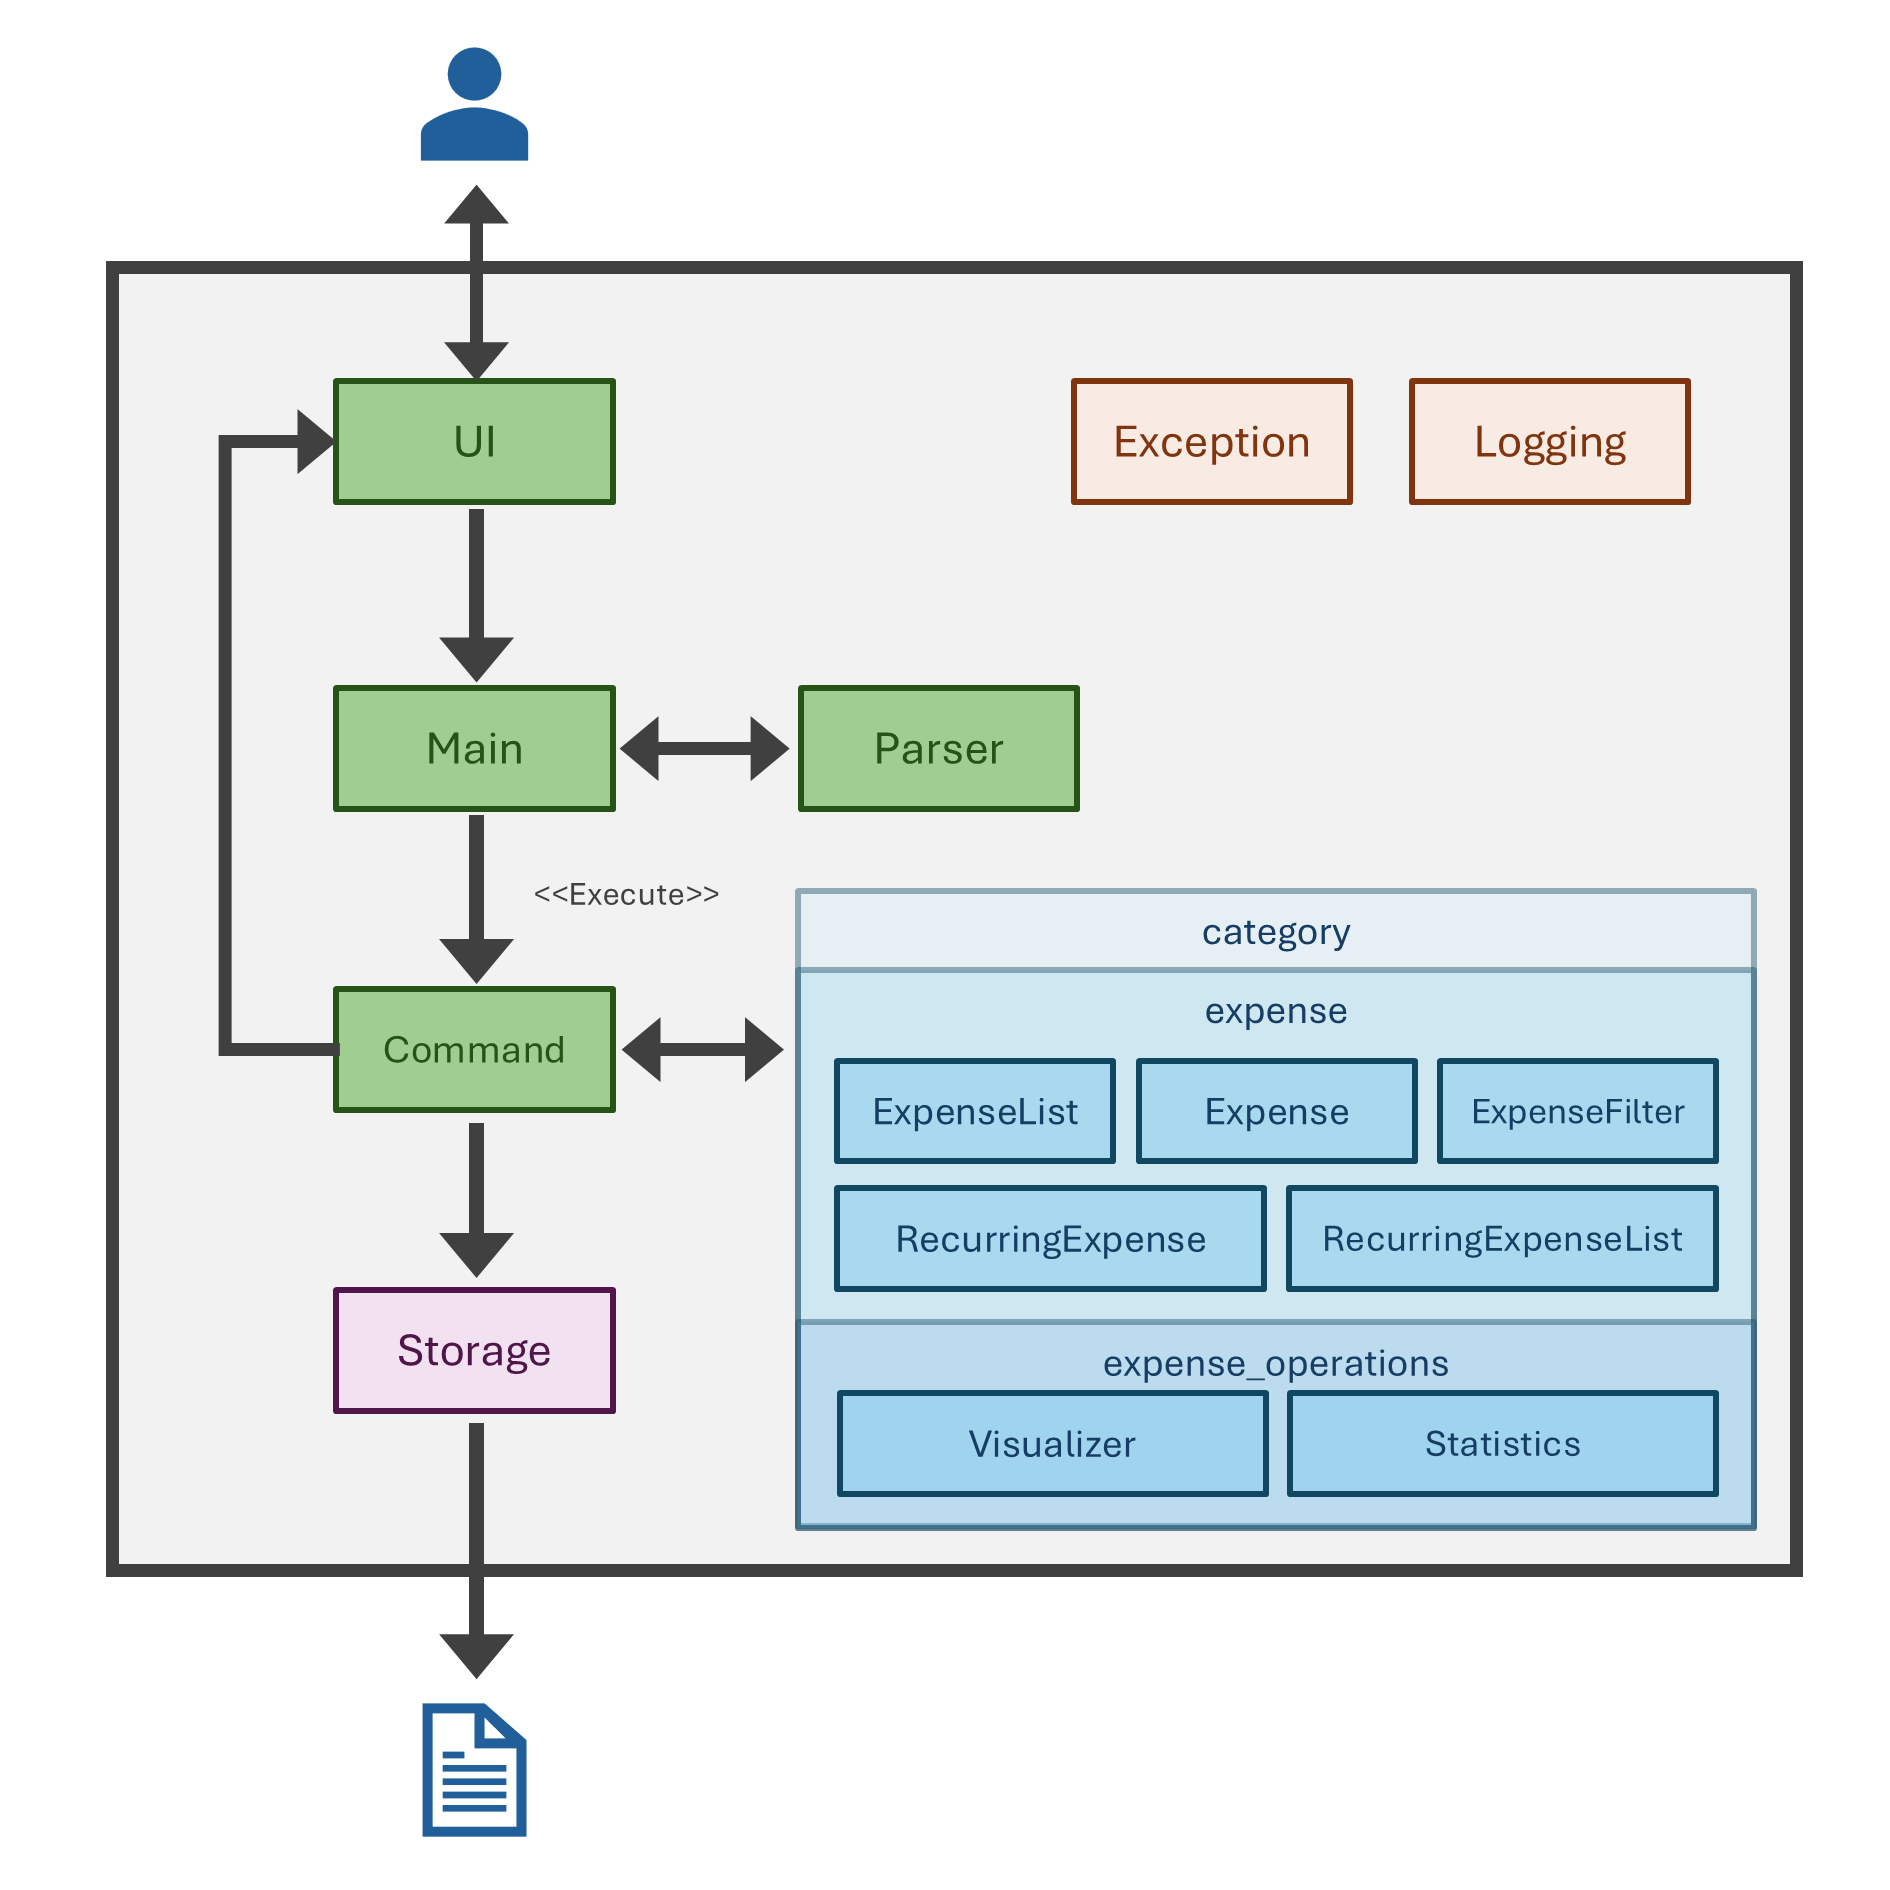
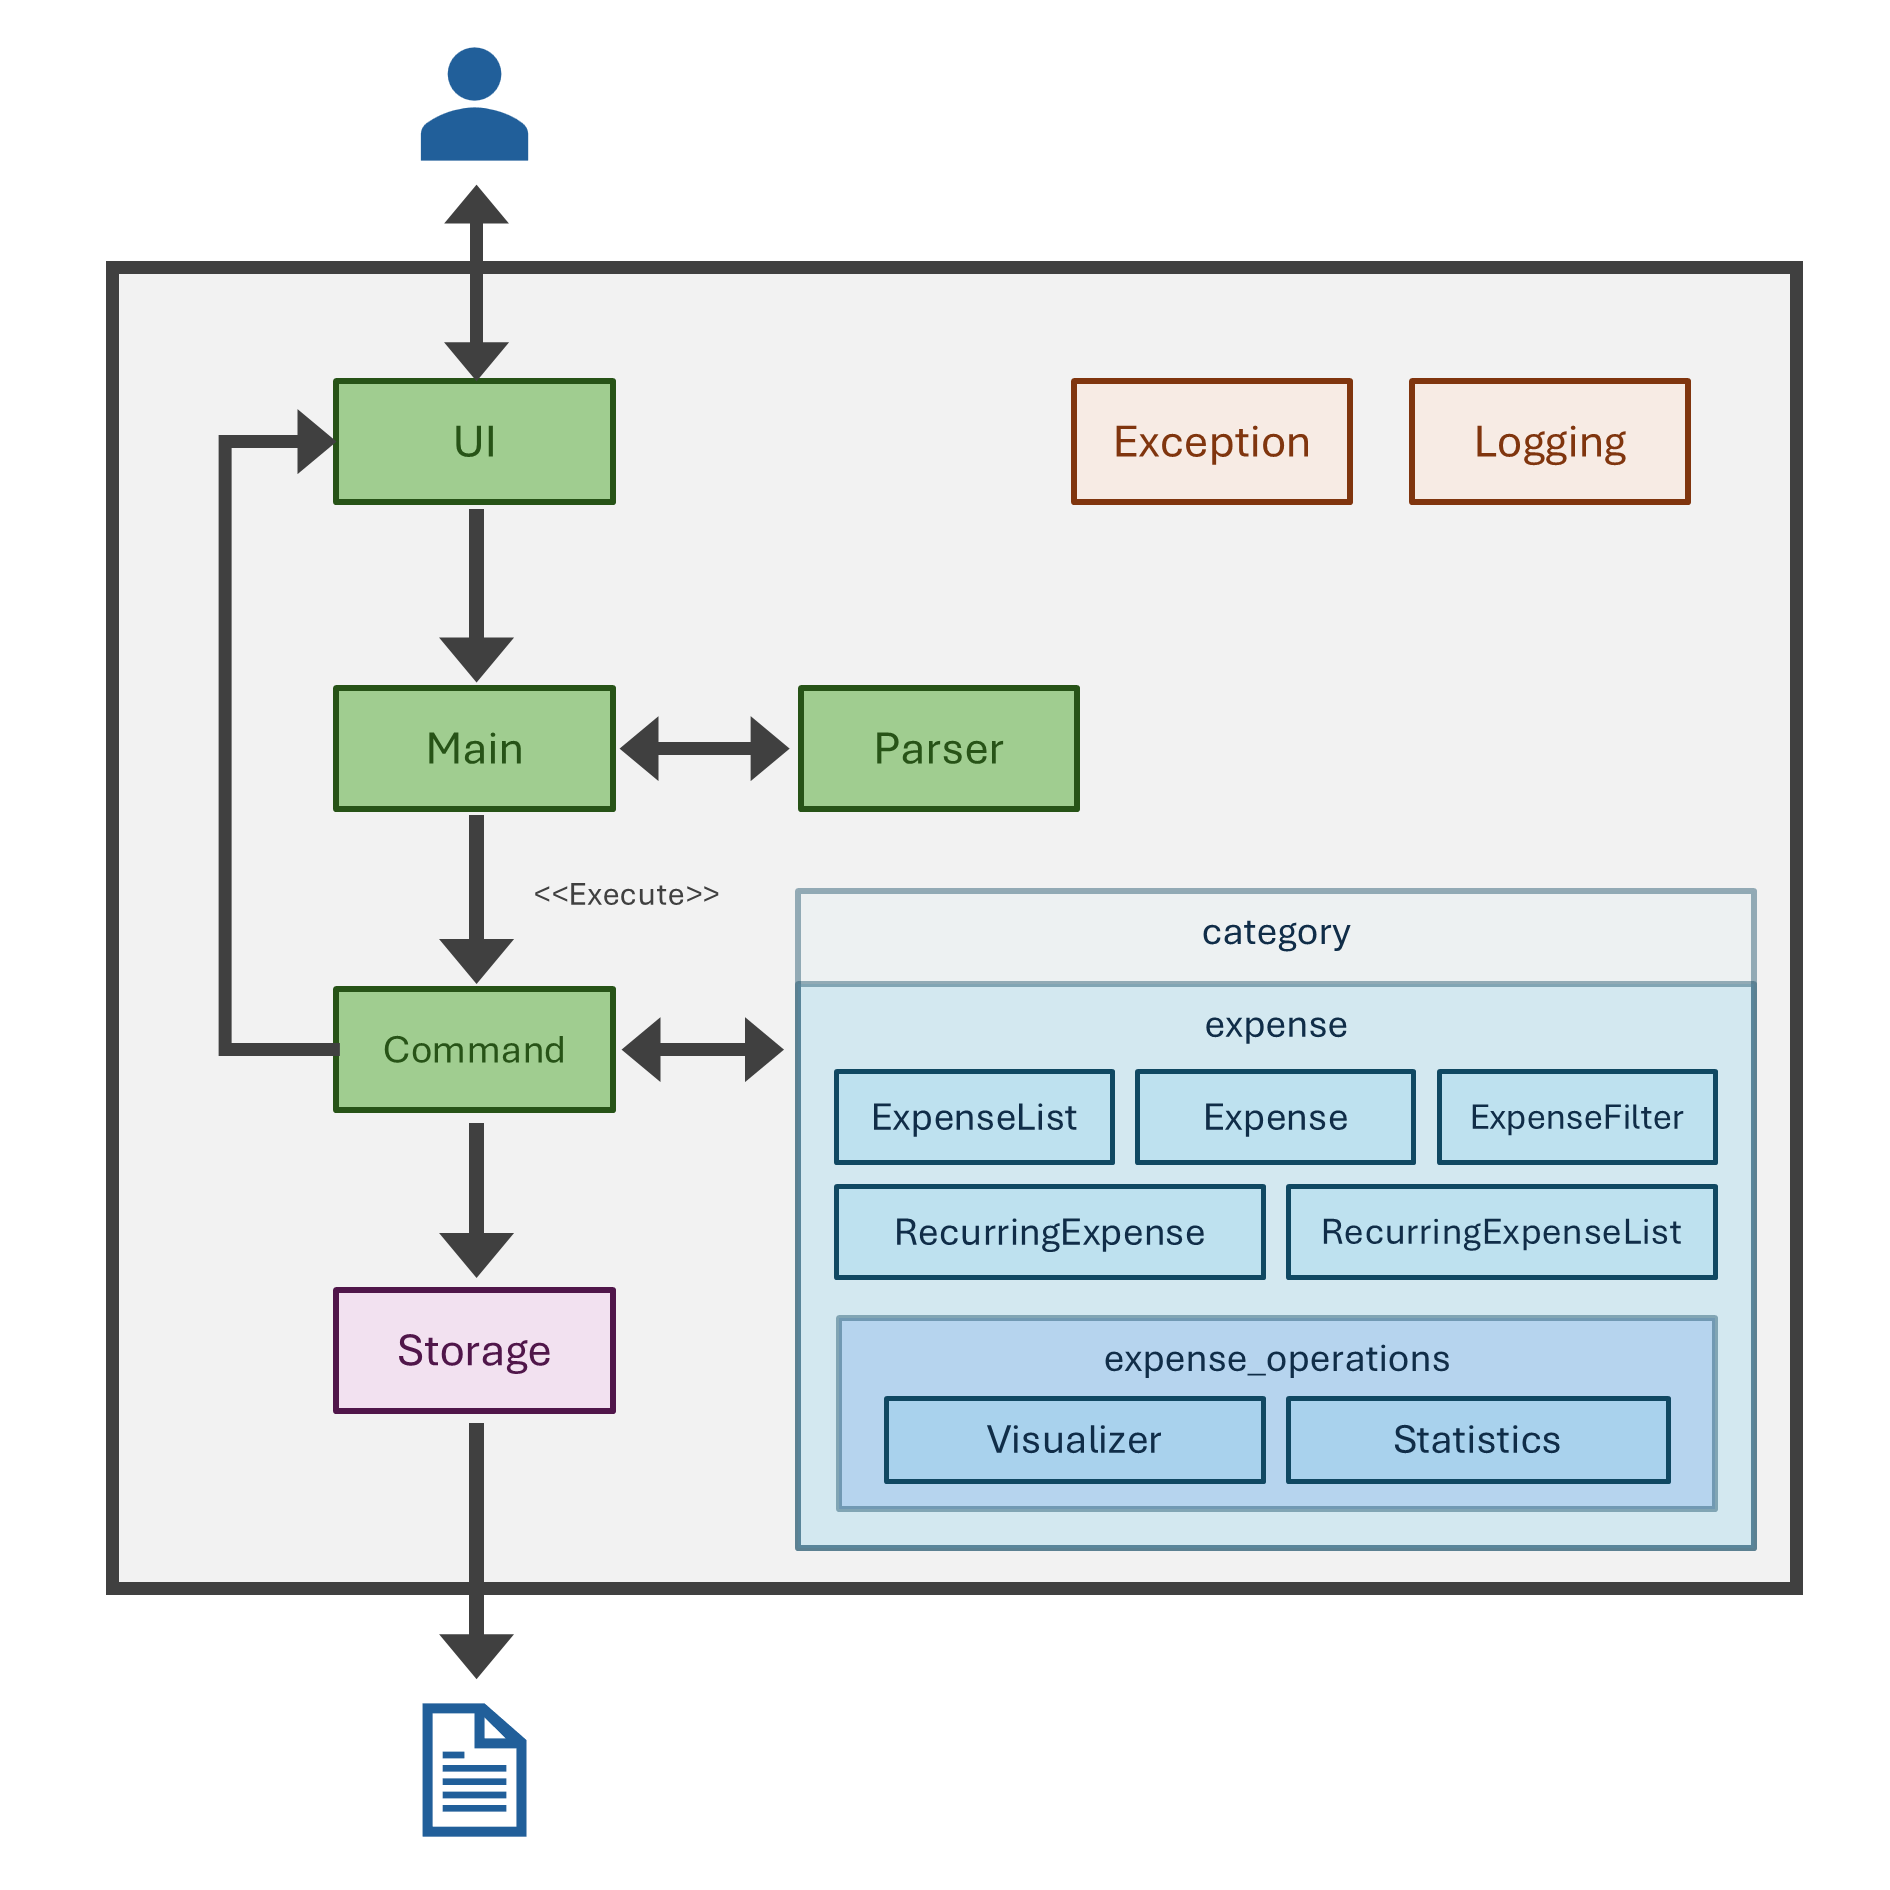
Fix issues #161 and #163
- Increase contrast for Architecture Diagram.
- Emphasise date limits of `visualize` in UG.

Changed region(s): [[0.0624, 0.4995, 0.9677, 0.8429]]

diff --git a/docs/UserGuide.md b/docs/UserGuide.md
@@ -144,7 +144,8 @@ Notes:
 - `FROM_DATE` and `TO_DATE` are dates in `DD-MM-YYYY` format.
 - The command will filter out all expenses that satisfy your constraint and draw a bar graph.
 If the time range is small (under one month), a daily graph will be displayed. Otherwise, a monthly graph will be used.
-Note that this command currently has a time span limit of `1080 days`.
+
+Note that this command currently has a time span limit of `1080 days` (approximately 36 months). Exceeding this limit will return an error.
 
 Examples: 
 - `visualize`
